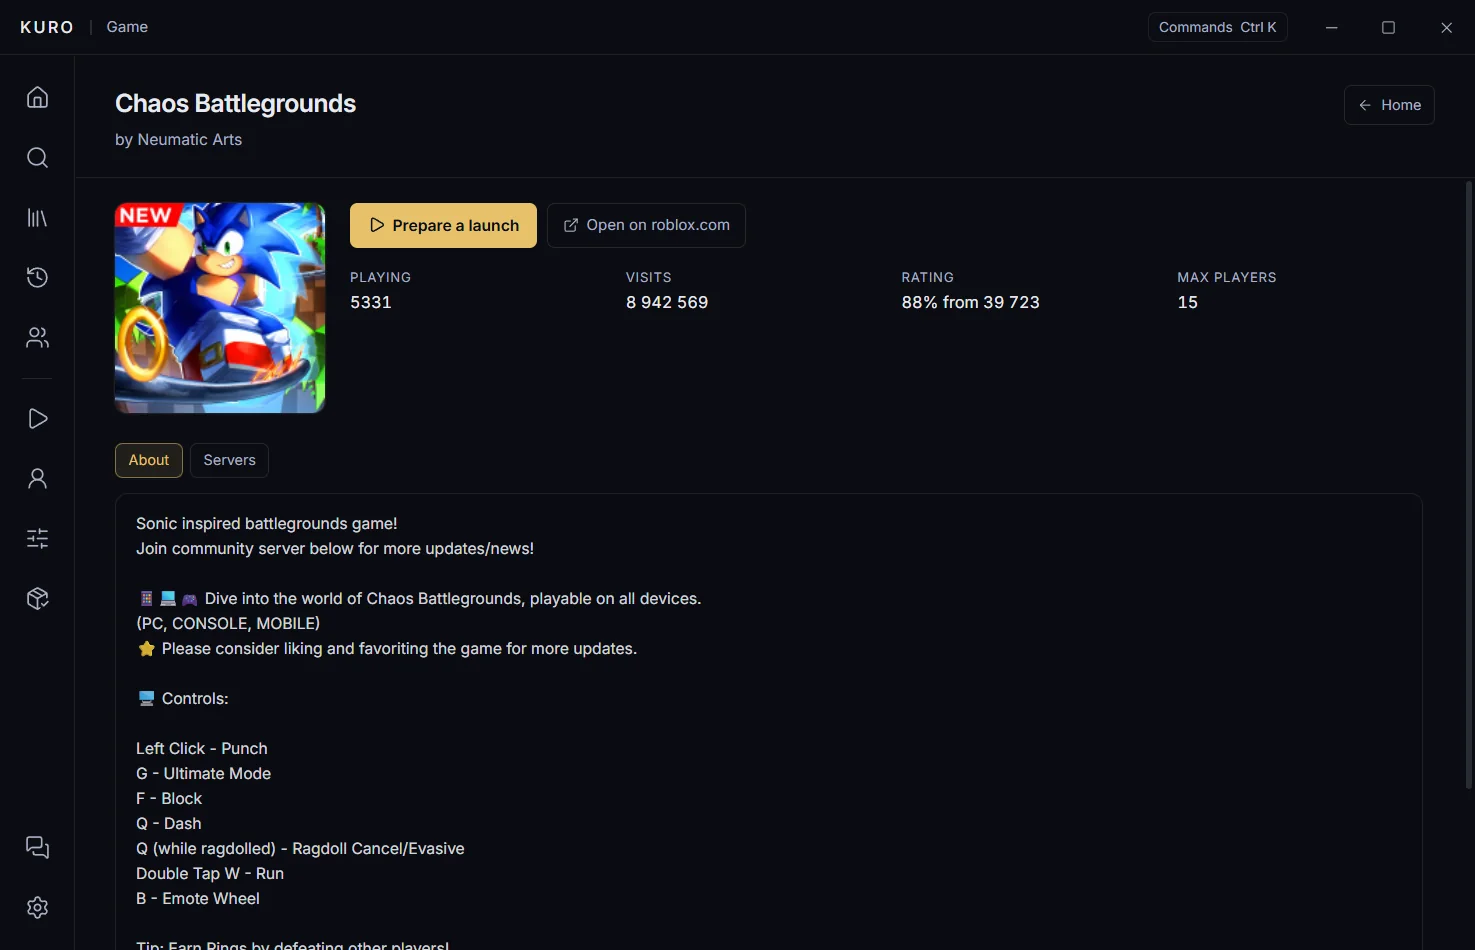
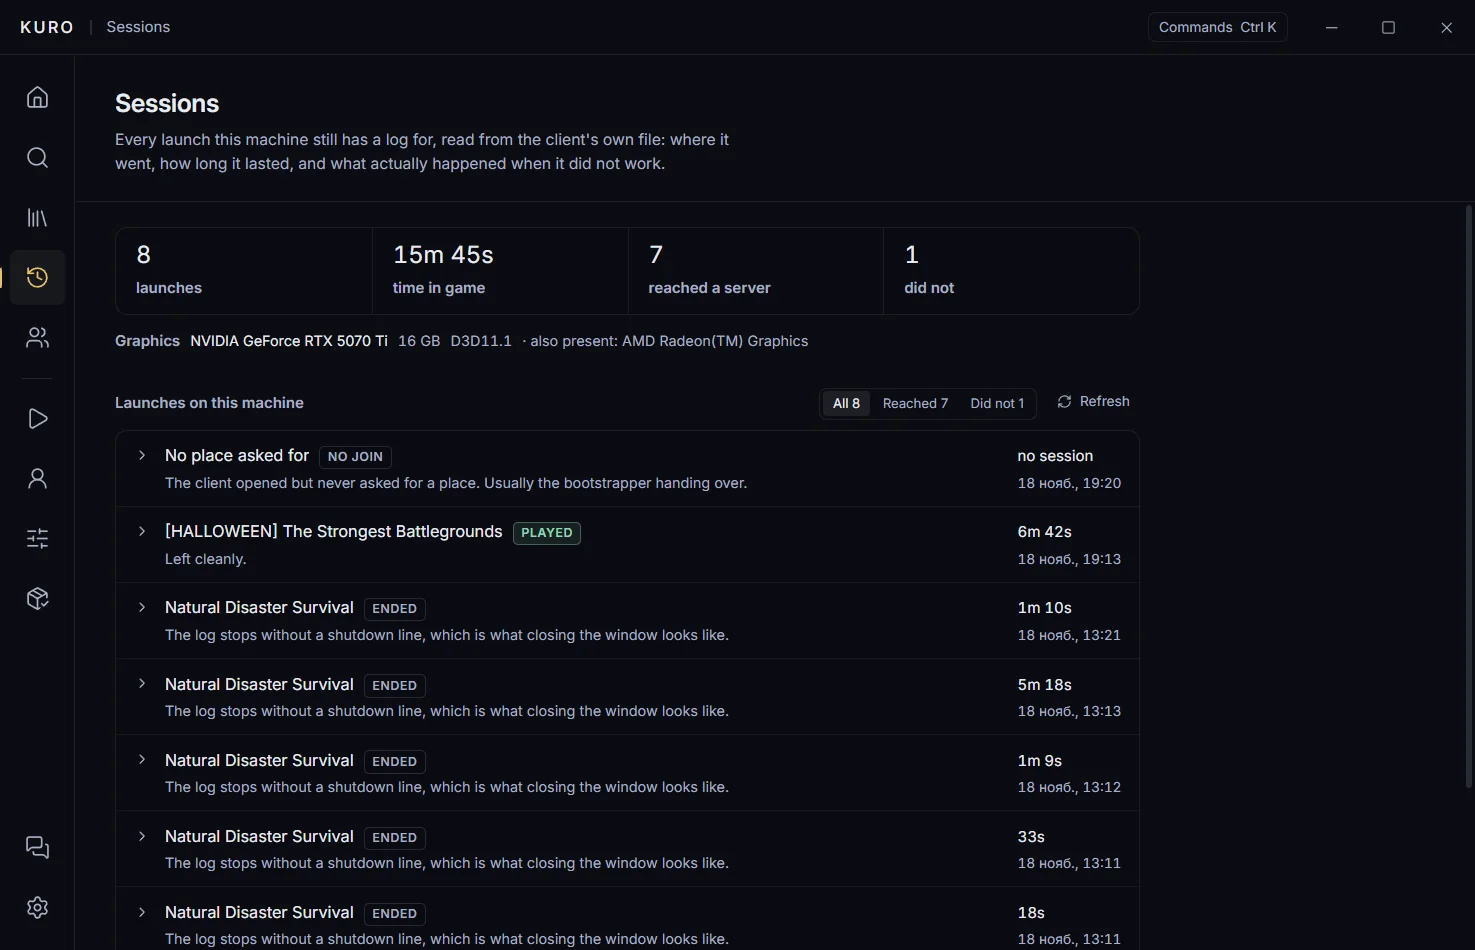
Name the reason once, and say which card the client is on

diff --git a/src/panels/SessionsPanel.tsx b/src/panels/SessionsPanel.tsx
@@ -135,6 +135,7 @@ export function SessionsBody() {
   return (
     <>
       <Summary totals={totals} />
+      <Machine receipts={receipts} />
 
       <Section
         title="Launches on this machine"
@@ -168,6 +169,48 @@ export function SessionsBody() {
         keeps the recent ones and deletes the rest, so an empty week is the folder, not the app.
       </p>
     </>
+  );
+}
+
+/**
+ * Which GPU the client actually ran on, said in one line under the totals.
+ *
+ * The client enumerates every adapter and then names the one it chose, so this is a
+ * reading rather than a guess. When the chosen card is not the largest one on the
+ * machine, that is worth saying plainly: Windows decides per program.
+ */
+function Machine({ receipts }: { receipts: Receipt[] }) {
+  const newest = receipts.find((receipt) => receipt.adapters.length > 0);
+  if (!newest) return null;
+
+  const chosen = newest.adapters.find((adapter) => adapter.chosen) ?? null;
+  const others = newest.adapters.filter((adapter) => !adapter.chosen && adapter.vramMb);
+  const biggest = newest.adapters.reduce<Receipt["adapters"][number] | null>(
+    (best, adapter) => ((adapter.vramMb ?? 0) > (best?.vramMb ?? 0) ? adapter : best),
+    null,
+  );
+  const wrong = chosen && biggest && chosen.name !== biggest.name;
+
+  return (
+    <div className="mt-3">
+      <p className="flex flex-wrap items-baseline gap-x-2 text-[11.5px] text-muted">
+        <span className="label">Graphics</span>
+        <span className="text-body">{chosen?.name ?? "not recorded"}</span>
+        {chosen?.vramMb ? <span className="num">{Math.round(chosen.vramMb / 1024)} GB</span> : null}
+        {newest.api ? <span className="num">{newest.api}</span> : null}
+        {others.length > 0 ? (
+          <span className="text-muted">
+            · also present: {others.map((adapter) => adapter.name).join(", ")}
+          </span>
+        ) : null}
+      </p>
+      {wrong ? (
+        <p className="mt-1 text-[11.5px] text-gold">
+          Windows sent the client to {chosen?.name}, not the larger {biggest?.name}. That is a
+          per-program Windows setting, not a Roblox flag.
+        </p>
+      ) : null}
+    </div>
   );
 }
 

diff --git a/src/lib/types.ts b/src/lib/types.ts
@@ -440,6 +440,13 @@ export type AssistantFinished = {
  * One launch, as the client's own log recorded it. Every field is either written by
  * the client or absent; nothing here is inferred from the website.
  */
+export type Adapter = {
+  name: string;
+  vramMb: number | null;
+  /** The one the client actually used. */
+  chosen: boolean;
+};
+
 export type Receipt = {
   id: string;
   version: string;
@@ -458,6 +465,8 @@ export type Receipt = {
   adapter: string | null;
   api: string | null;
   vramMb: number | null;
+  /** Every GPU the client enumerated for this launch. */
+  adapters: Adapter[];
   shutdownStage: string | null;
   httpErrors: number;
   lastHttp: string | null;

diff --git a/src-tauri/src/receipts.rs b/src-tauri/src/receipts.rs
@@ -49,6 +49,15 @@ pub enum Outcome {
     Crashed,
 }
 
+/// One GPU the client saw, and whether it is the one it used.
+#[derive(Debug, Clone, Serialize, PartialEq, Eq)]
+#[serde(rename_all = "camelCase")]
+pub struct Adapter {
+    pub name: String,
+    pub vram_mb: Option<u64>,
+    pub chosen: bool,
+}
+
 /// One launch, as the client recorded it.
 #[derive(Debug, Clone, Serialize)]
 #[serde(rename_all = "camelCase")]
@@ -72,6 +81,9 @@ pub struct Receipt {
     pub adapter: Option<String>,
     pub api: Option<String>,
     pub vram_mb: Option<u64>,
+    /// Every GPU the client enumerated, with the chosen one marked. This is what makes
+    /// "the client is on the wrong card" observable instead of a guess.
+    pub adapters: Vec<Adapter>,
     pub shutdown_stage: Option<String>,
     /// How many failed HTTP requests the client logged, and the last one.
     pub http_errors: u64,
@@ -176,6 +188,7 @@ pub fn parse(path: &Path, file: &str) -> Option<Receipt> {
     let mut join_seconds = None;
     let mut handshake = false;
     let mut adapter = None;
+    let mut adapters: Vec<Adapter> = Vec::new();
     let mut api = None;
     let mut vram_mb = None;
     let mut shutdown_stage = None;
@@ -243,6 +256,33 @@ pub fn parse(path: &Path, file: &str) -> Option<Receipt> {
             }
         }
 
+        // `Adapter[0] info: Description=<name>, VendorId=..., DedicatedVideoMemory=<bytes>`
+        if let Some(at) = line.find("Adapter[") {
+            if line.contains(" info: ") {
+                let rest = &line[at..];
+                let name = rest
+                    .find("Description=")
+                    .map(|start| {
+                        let tail = &rest[start + "Description=".len()..];
+                        let end = tail.find(", VendorId=").unwrap_or(tail.len());
+                        tail[..end].trim().to_string()
+                    })
+                    .unwrap_or_default();
+                let vram = rest
+                    .find("DedicatedVideoMemory=")
+                    .and_then(|start| digits(&rest[start + "DedicatedVideoMemory=".len()..]))
+                    .map(|bytes| bytes / (1024 * 1024))
+                    .filter(|mb| *mb > 0);
+                if !name.is_empty() {
+                    adapters.push(Adapter {
+                        name,
+                        vram_mb: vram,
+                        chosen: false,
+                    });
+                }
+            }
+        }
+
         if let Some(at) = line.find("GfxFeatureLevel ") {
             let rest = line[at + "GfxFeatureLevel ".len()..].trim();
             let level = rest.split_whitespace().next().unwrap_or("");
@@ -290,6 +330,12 @@ pub fn parse(path: &Path, file: &str) -> Option<Receipt> {
         }
     }
 
+    if let Some(chosen) = &adapter {
+        for item in adapters.iter_mut() {
+            item.chosen = item.name == *chosen;
+        }
+    }
+
     let seconds = seconds.max(join_seconds.unwrap_or(0));
     let outcome = if crash {
         Outcome::Crashed
@@ -305,12 +351,14 @@ pub fn parse(path: &Path, file: &str) -> Option<Receipt> {
         Outcome::NeverJoined
     };
 
+    // The duration is on the row already, so the sentence carries the reason instead
+    // of repeating the number: say a fact once.
     let verdict = match outcome {
-        Outcome::Left => format!("Ran for {} and left cleanly.", span(seconds)),
-        Outcome::Ended => format!(
-            "Ran for {}. The log stops without a shutdown line, which is what closing the window looks like.",
-            span(seconds)
-        ),
+        Outcome::Left => "Left cleanly.".to_string(),
+        Outcome::Ended => {
+            "The log stops without a shutdown line, which is what closing the window looks like."
+                .to_string()
+        }
         Outcome::NoHandshake => {
             let mut text = "Stopped before it reached a server.".to_string();
             if let Some(last) = &last_http {
@@ -323,11 +371,10 @@ pub fn parse(path: &Path, file: &str) -> Option<Receipt> {
             text
         }
         Outcome::NeverJoined => {
-            "The client opened but never asked for a place. Usually the bootstrapper handing over.".to_string()
+            "The client opened but never asked for a place. Usually the bootstrapper handing over."
+                .to_string()
         }
-        Outcome::Crashed => {
-            "The client logged a crash while it was running.".to_string()
-        }
+        Outcome::Crashed => "The client logged a crash while it was running.".to_string(),
     };
 
     let action = match outcome {
@@ -354,6 +401,7 @@ pub fn parse(path: &Path, file: &str) -> Option<Receipt> {
         adapter,
         api,
         vram_mb,
+        adapters,
         shutdown_stage,
         http_errors,
         last_http,
@@ -591,6 +639,8 @@ mod tests {
 
     const CLEAN: &str = "\
 2026-11-18T16:13:44.389Z,0.389293,b668,6,Info [DFLog::Mimalloc] mi_option_reserve_os_memory=0
+2026-11-18T16:13:44.581Z,0.581731,b668,6 [FLog::Graphics] Adapter[0] info: Description=NVIDIA GeForce RTX 5070 Ti, VendorId=0x10de, DeviceId=0x2c05, DedicatedVideoMemory=16771973120, DedicatedSystemMemory=0
+2026-11-18T16:13:44.581Z,0.581731,b668,6 [FLog::Graphics] Adapter[1] info: Description=AMD Radeon(TM) Graphics, VendorId=0x1002, DeviceId=0x13c0, DedicatedVideoMemory=2119966720, DedicatedSystemMemory=0
 2026-11-18T16:13:45.206Z,1.206065,b668,6 [FLog::Graphics] D3D11 Adapter: NVIDIA GeForce RTX 5070 Ti
 2026-11-18T16:13:45.206Z,1.206065,b668,6 [FLog::Graphics] D3D11 Adapter: Vendor 10de Device 2c05 VRAM 15995 RAM 46696
 2026-11-18T16:13:45.219Z,1.219940,b668,6,Warning [FLog::Graphics] D3D11: GfxCardName NVIDIA GeForce RTX 5070 Ti GfxCardVendor 10de GfxFeatureLevel D3D11.1
@@ -644,11 +694,18 @@ mod tests {
         );
         assert_eq!(receipt.vram_mb, Some(15_995));
         assert_eq!(receipt.api.as_deref(), Some("D3D11.1"));
+        assert_eq!(receipt.adapters.len(), 2);
+        assert_eq!(receipt.adapters[0].name, "NVIDIA GeForce RTX 5070 Ti");
+        assert_eq!(receipt.adapters[0].vram_mb, Some(15_995));
+        assert!(receipt.adapters[0].chosen);
+        assert_eq!(receipt.adapters[1].name, "AMD Radeon(TM) Graphics");
+        assert_eq!(receipt.adapters[1].vram_mb, Some(2_021));
+        assert!(!receipt.adapters[1].chosen);
         assert_eq!(receipt.shutdown_stage.as_deref(), Some("UGCGame"));
         assert_eq!(receipt.join_seconds, Some(117));
         assert_eq!(receipt.seconds, 402);
         assert_eq!(receipt.outcome, Outcome::Left);
-        assert_eq!(receipt.verdict, "Ran for 6m 42s and left cleanly.");
+        assert_eq!(receipt.verdict, "Left cleanly.");
         assert_eq!(receipt.action, None);
         assert_eq!(receipt.started, 1_795_018_424);
     }
